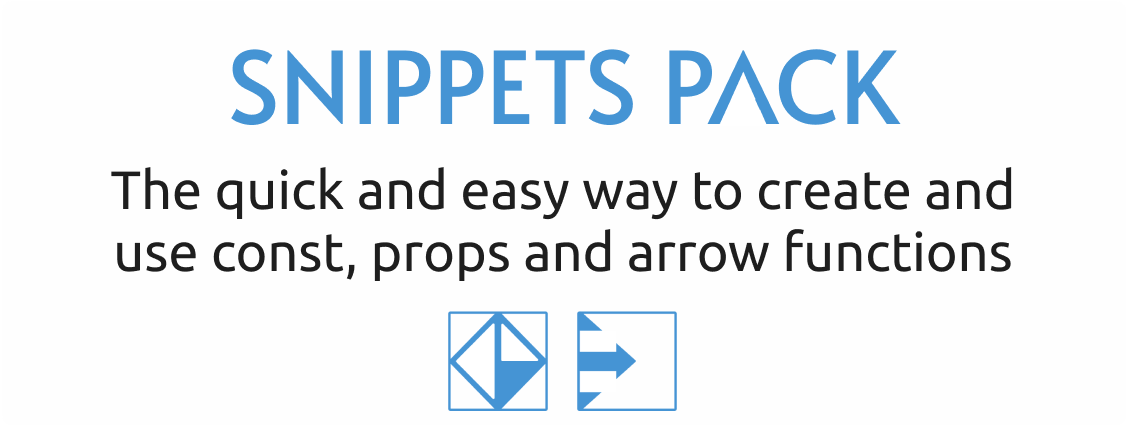
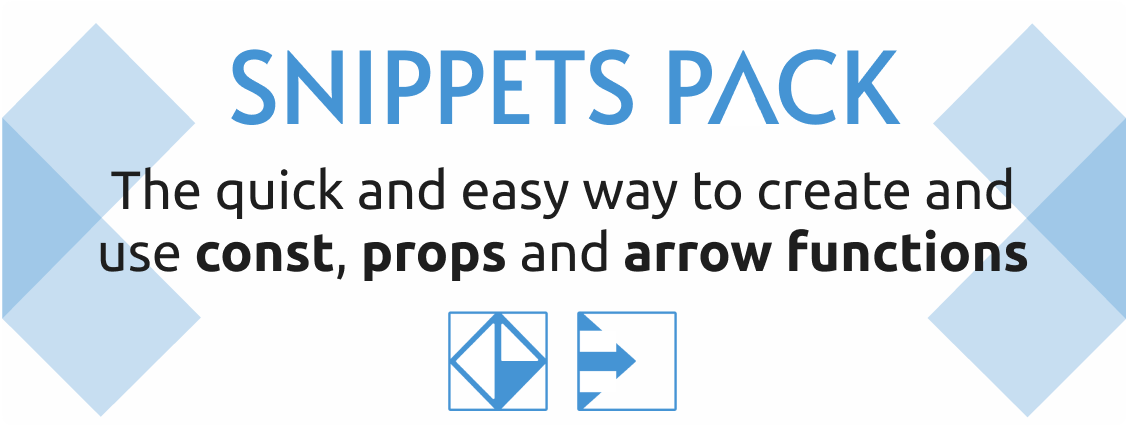
fix preview image

Changed region(s): [[0.0, 0.061, 1.0, 0.9765]]

diff --git a/CHANGELOG.md b/CHANGELOG.md
@@ -9,87 +9,18 @@ Fixed       for any bug fixes.
 Security    to invite users to upgrade in case of vulnerabilities.
 -->
 
-## [2.1.1] - 2022/04/20
+## [1.1.0] - 2022/04/21
 
-### Removed
+## Changed
 
-- variables, json and object literal snippets were moved to a new extension [Const & Props Snippets](https://marketplace.visualstudio.com/items?itemName=deinsoftware.
-
-## [2.1.0] - 2022/04/20
-
-### Added
-
-- `afeea` snippet for explicit empty with arguments
-
-## [2.0.1] - 2022/04/20
-
-### Removed
-
-- destructuring snippets were moved to a new extension [Const & Props Snippets](https://marketplace.visualstudio.com/items?itemName=deinsoftware.
-
-## [2.0.0] - 2022/04/20
-
-### Removed
-
-- all the const and properties snippets were moved to a new extension [Const & Props Snippets](https://marketplace.visualstudio.com/items?itemName=deinsoftware.const-props-snippets)
-- array snippets not related with arrow functions
-
-## [1.11.0] - 2022/04/17
-
-### Added
-
-- new export function section snippets
-
-## [1.10.0] - 2022/04/01
-
-### Added
-
-- `caaf` snippet for constant async arrow function
-- `caaft` snippet for constant async arrow function with explicit type
-
-## [1.9.0] - 2022/03/08
-
-### Added
-
-- `caf` snippet for constant arrow function
-- `caft` snippet for constant arrow function with explicit type
-
-## [1.8.0] - 2022/02/03
-
-### Added
-
-- `afee` snippet for arrow function explicit without `return`
-
-## [1.7.2] - 2022/01/26
+- pack icons
 
 ### Fixed
 
-- Snippet are not working on TSX attributes
+- previw images
 
-## [1.7.1] - 2022/01/26
-
-### Fixed
-
-- Snippet are not working on JSX attributes
-
-## [1.7.0] - 2022/01/13
+## [1.0.0] - 2022/04/20
 
 ### Added
 
-- Array Unique Values snippet
-
-## [1.6.1] - 2021/12/27
-
-### Fixed
-
-- README menu link to Arrays
-
-## [1.6.0] - 2021/12/27
-
-### Added
-
-- Array snippets with `at`, `filter` and `sort`.
-
-### Changed
-
-- Turn helper into array snippets.
+- pack with [Const & Props Snippets](https://marketplace.visualstudio.com/items?itemName=deinsoftware.const-props-snippets) and [Arrow Function Snippets](https://marketplace.visualstudio.com/items?itemName=deinsoftware.arrow-function-snippets) extensions
